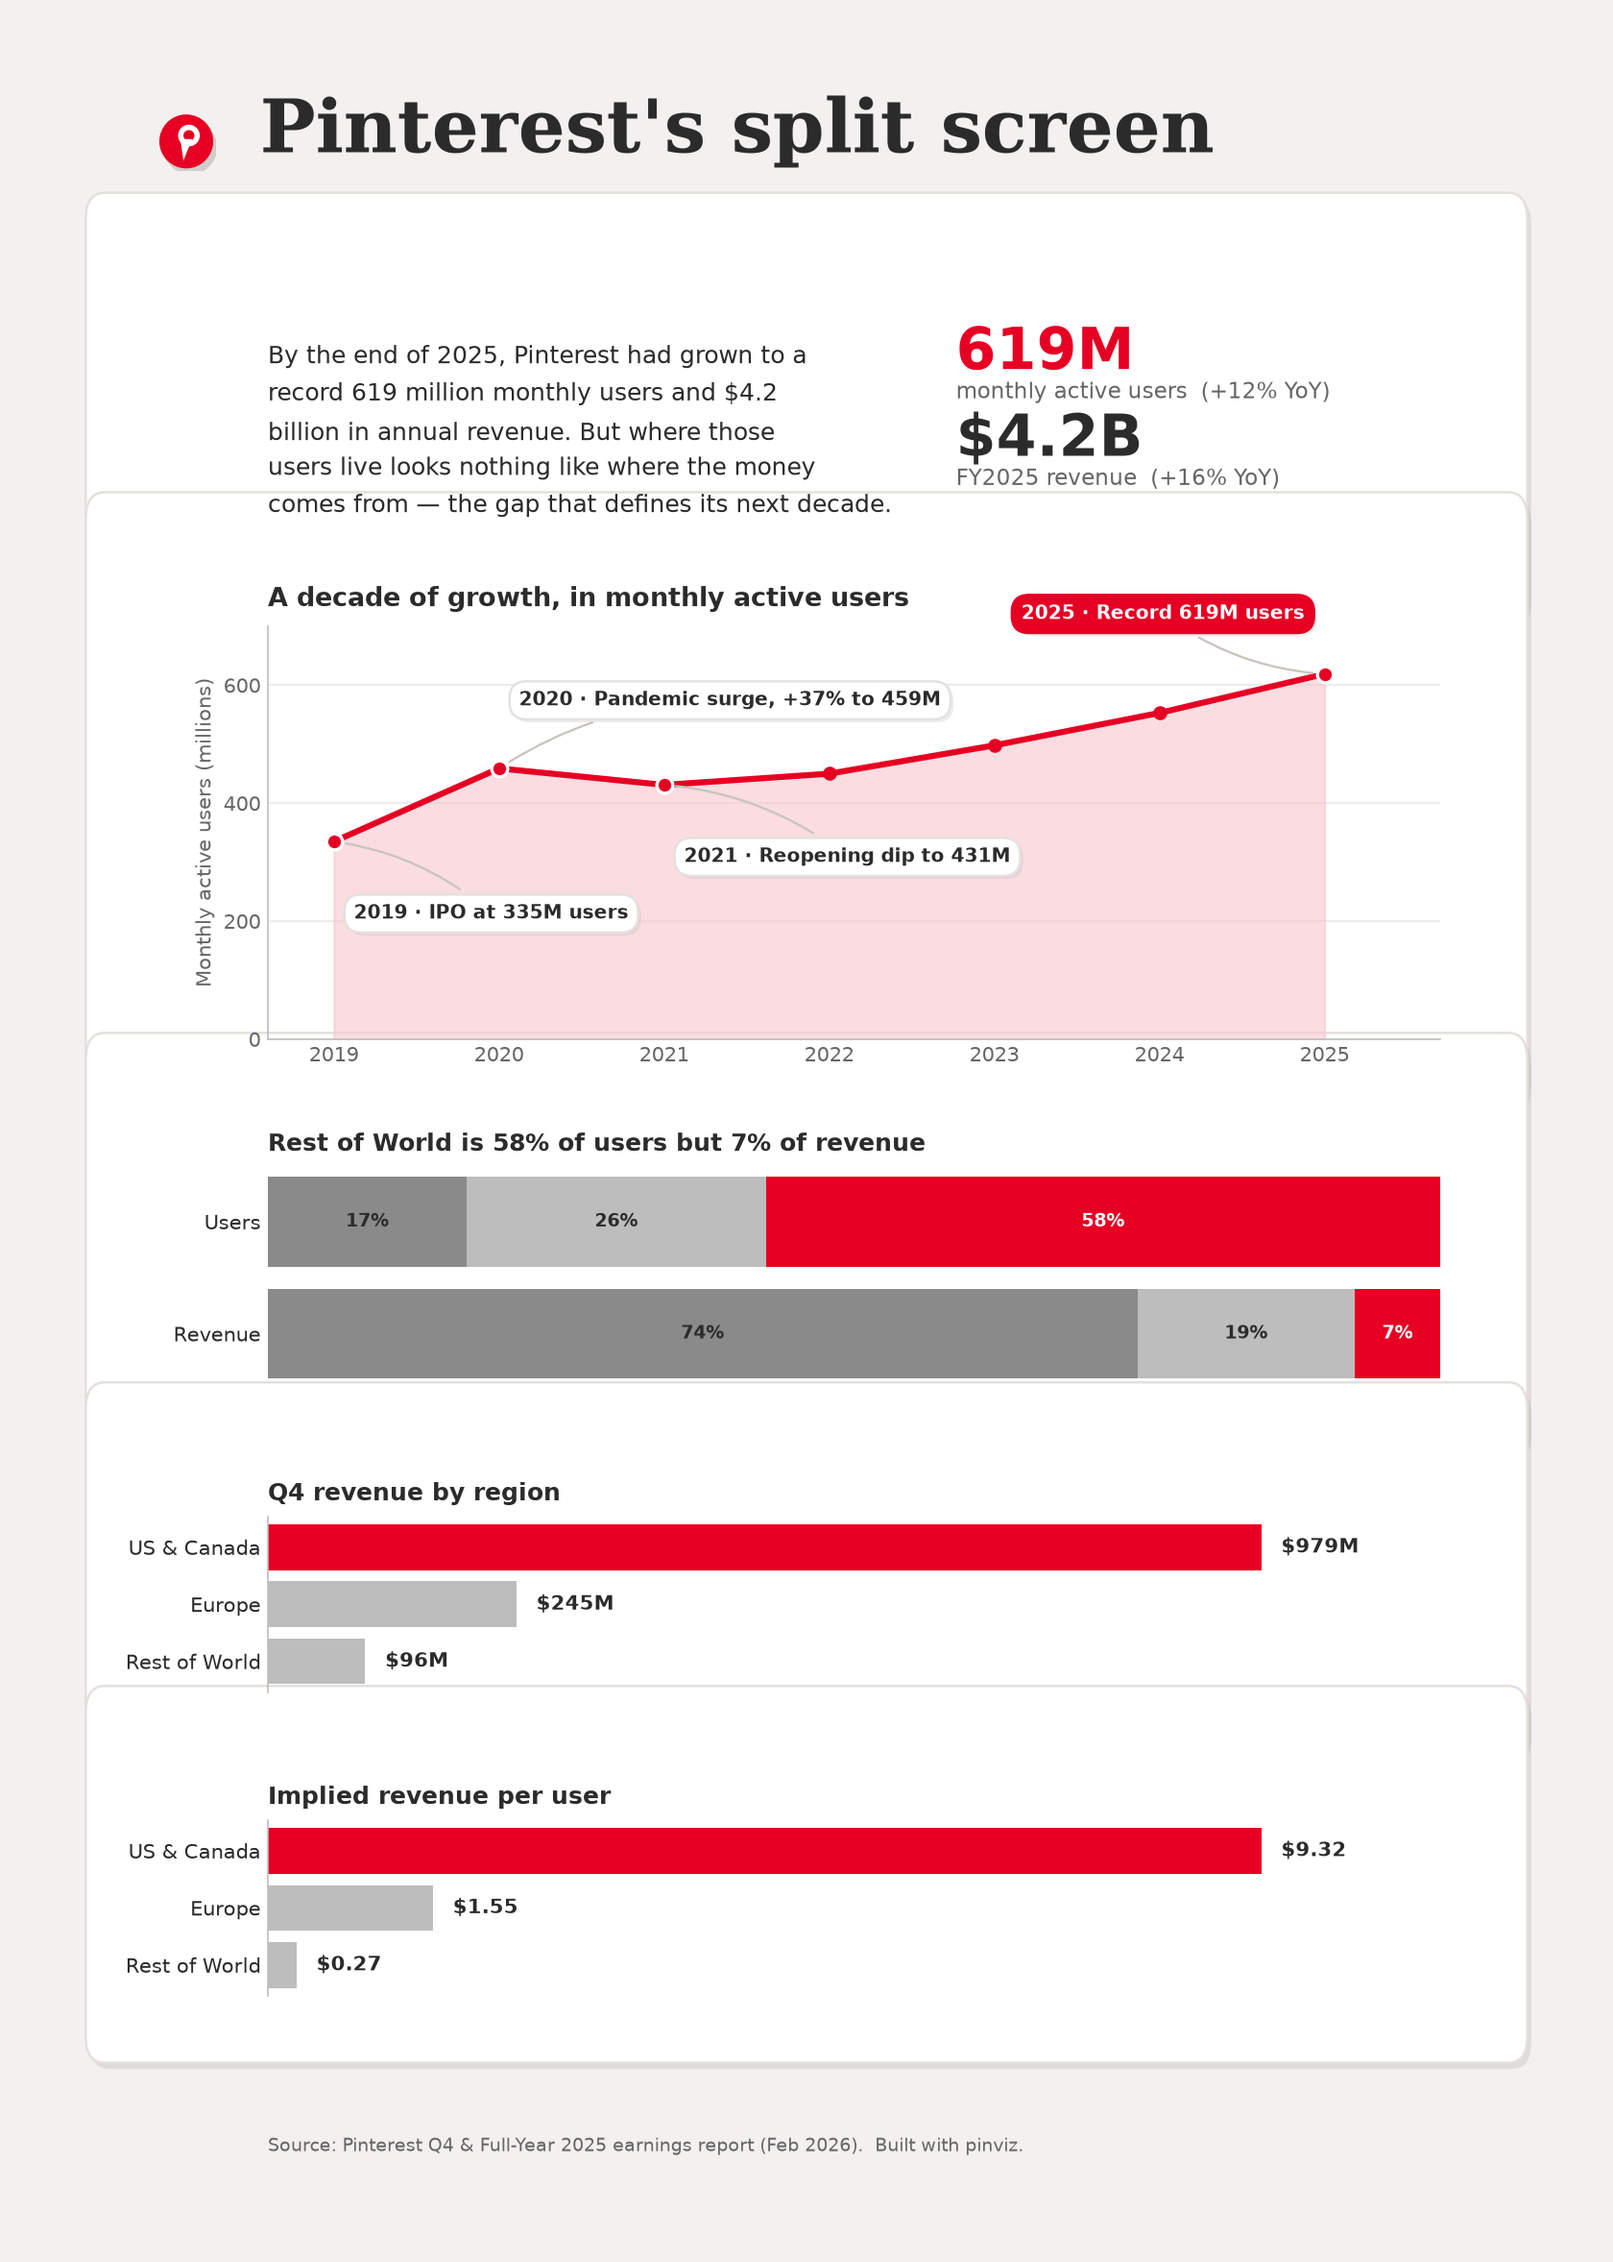
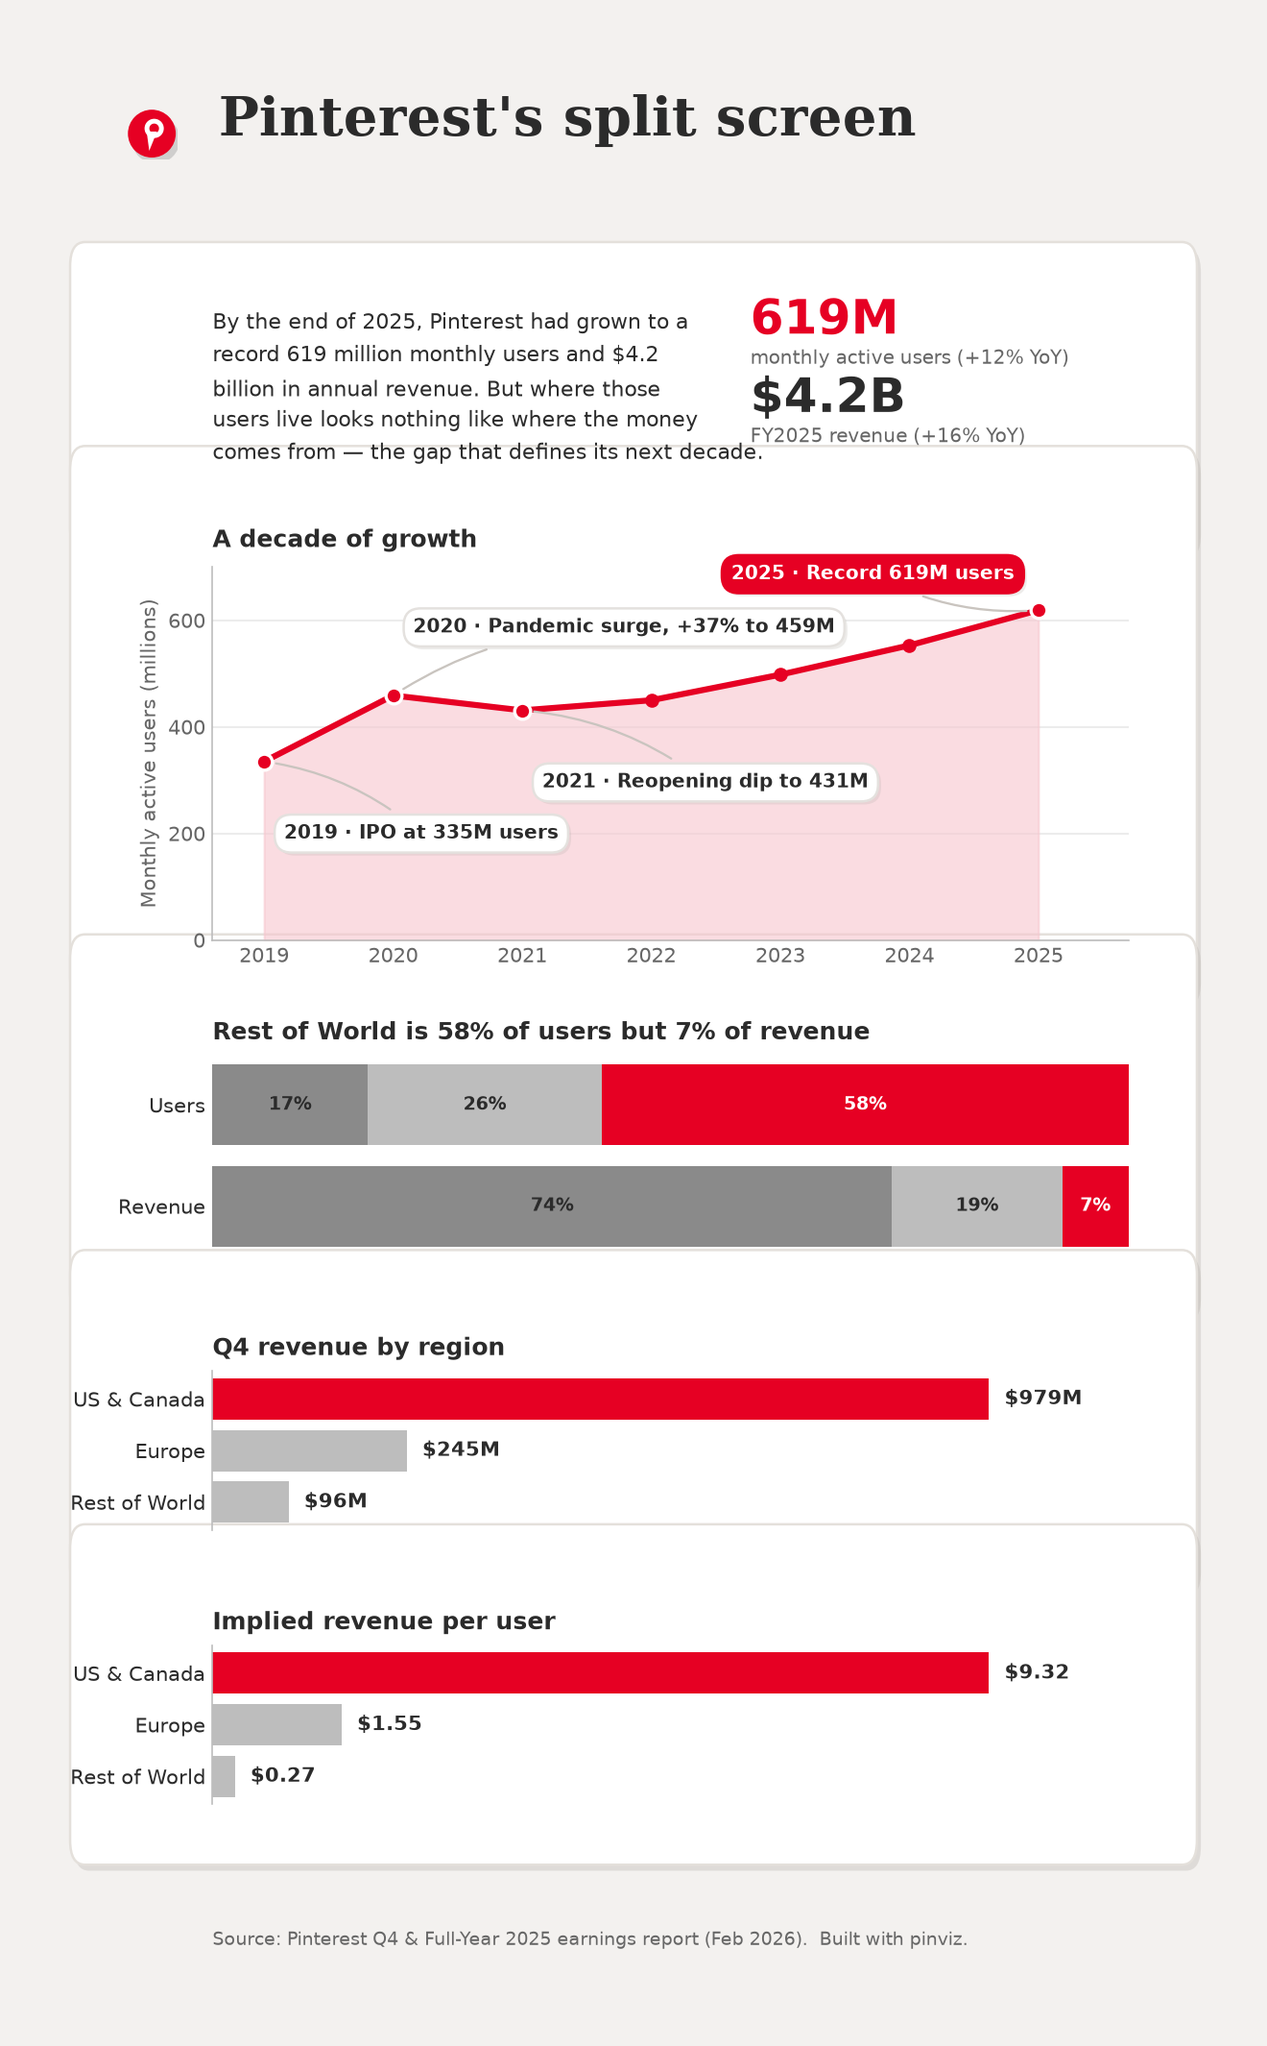
Narrow the poster into a tall column layout
Shrink the figure width so charts read as a slim pin-style column instead
of broad full-width bars; scale the header and big-number type to match,
shorten the hero title (the y-axis already names the metric), lower the
record-year chip to clear the title, and add independent bottom padding so
the intro card border clears the wrapped deck text.

Claude-Session: https://claude.ai/code/session_012TmZqnf53DuYqMZj6VxjoC

diff --git a/examples/pinviz_poster.py b/examples/pinviz_poster.py
@@ -47,7 +47,7 @@ EVENTS = [
     (2019, 335, "2019 · IPO at 335M users", (10, -36), "left"),
     (2020, 459, "2020 · Pandemic surge, +37% to 459M", (10, 34), "left"),
     (2021, 431, "2021 · Reopening dip to 431M", (10, -36), "left"),
-    (2025, 619, "2025 · Record 619M users", (-10, 30), "right"),
+    (2025, 619, "2025 · Record 619M users", (-12, 18), "right"),
 ]
 
 
@@ -82,16 +82,18 @@ def add_logo(fig, left, bottom, size):
     return ax
 
 
-def add_card(ax_bg, axes, pad_y=0.030, extra_top=0.0, x0=0.045, x1=0.955):
+def add_card(ax_bg, axes, pad_y=0.030, extra_top=0.0, x0=0.045, x1=0.955, pad_bottom=None):
     """Draw a full-width rounded white card with a soft shadow behind ``axes``.
 
     Cards are drawn into ``ax_bg`` — a full-canvas axes pinned behind
     everything (negative zorder) — so they never paint over the charts. The
     horizontal extent is fixed (``x0``/``x1``) so every card aligns and left-
-    side axis labels always fall inside the card.
+    side axis labels always fall inside the card. ``pad_bottom`` overrides the
+    bottom padding independently (e.g. to clear text that overflows an axis).
     """
+    pad_bottom = pad_y if pad_bottom is None else pad_bottom
     boxes = [ax.get_position() for ax in axes]
-    y0 = min(b.y0 for b in boxes) - pad_y
+    y0 = min(b.y0 for b in boxes) - pad_bottom
     y1 = max(b.y1 for b in boxes) + pad_y + extra_top
     card = FancyBboxPatch(
         (x0, y0), x1 - x0, y1 - y0,
@@ -142,8 +144,8 @@ def draw_hero(ax, mau):
         # Emphasise the anchor point with a ringed dot.
         ax.plot([yr], [val], marker="o", markersize=8, markerfacecolor=PIN_RED,
                 markeredgecolor="white", markeredgewidth=1.6, zorder=7)
-    ax.set_title("A decade of growth, in monthly active users",
-                 loc="left", fontsize=13, fontweight="bold", color=INK, pad=10)
+    ax.set_title("A decade of growth", loc="left", fontsize=12,
+                 fontweight="bold", color=INK, pad=10)
 
 
 def draw_share_gap(ax, reg):
@@ -200,7 +202,7 @@ def main() -> None:
     reg_rev = reg.sort_values("revenue_musd")
     reg_arpu = reg.assign(arpu=reg["revenue_musd"] / reg["maus_millions"]).sort_values("arpu")
 
-    fig = plt.figure(figsize=(11, 15.5), facecolor=PAGE)
+    fig = plt.figure(figsize=(8.6, 14.0), facecolor=PAGE)
 
     # Full-canvas background layer that holds the pin-board cards.
     ax_bg = fig.add_axes([0, 0, 1, 1]); ax_bg.set_zorder(-10)
@@ -214,8 +216,8 @@ def main() -> None:
     )
 
     # --- Header: logo + serif wordmark headline ---
-    add_logo(fig, left=0.09, bottom=0.930, size=0.037)
-    fig.text(0.155, 0.947, "Pinterest's split screen", fontsize=37,
+    add_logo(fig, left=0.09, bottom=0.928, size=0.042)
+    fig.text(0.165, 0.947, "Pinterest's split screen", fontsize=27,
              fontweight="bold", family="serif", color=INK, va="center")
 
     # --- Deck + big numbers ---
@@ -227,13 +229,13 @@ def main() -> None:
         "billion in annual revenue. But where those\n"
         "users live looks nothing like where the money\n"
         "comes from — the gap that defines its next decade.",
-        fontsize=12, color=INK, va="top", linespacing=1.55,
+        fontsize=10.5, color=INK, va="top", linespacing=1.55,
     )
     ax_big = fig.add_subplot(gs[1, 1]); ax_big.axis("off")
-    ax_big.text(0.05, 0.90, "619M", fontsize=29, fontweight="bold", color=PIN_RED, va="center")
-    ax_big.text(0.05, 0.66, "monthly active users  (+12% YoY)", fontsize=11, color=SUBTLE, va="center")
-    ax_big.text(0.05, 0.36, "$4.2B", fontsize=29, fontweight="bold", color=INK, va="center")
-    ax_big.text(0.05, 0.12, "FY2025 revenue  (+16% YoY)", fontsize=11, color=SUBTLE, va="center")
+    ax_big.text(0.05, 0.90, "619M", fontsize=24, fontweight="bold", color=PIN_RED, va="center")
+    ax_big.text(0.05, 0.64, "monthly active users (+12% YoY)", fontsize=9.5, color=SUBTLE, va="center")
+    ax_big.text(0.05, 0.36, "$4.2B", fontsize=24, fontweight="bold", color=INK, va="center")
+    ax_big.text(0.05, 0.10, "FY2025 revenue (+16% YoY)", fontsize=9.5, color=SUBTLE, va="center")
 
     # --- Charts (each a full-width panel) ---
     ax_hero = fig.add_subplot(gs[2, :]); draw_hero(ax_hero, mau)
@@ -255,7 +257,7 @@ def main() -> None:
 
     # --- Pin-board cards behind each panel (drawn after layout is known) ---
     fig.canvas.draw()
-    add_card(ax_bg, [ax_deck, ax_big], pad_y=0.055, extra_top=0.010)
+    add_card(ax_bg, [ax_deck, ax_big], pad_y=0.022, extra_top=0.010, pad_bottom=0.05)
     add_card(ax_bg, [ax_hero], extra_top=0.03)
     add_card(ax_bg, [ax_split], extra_top=0.03)
     add_card(ax_bg, [ax_rev], extra_top=0.03)
